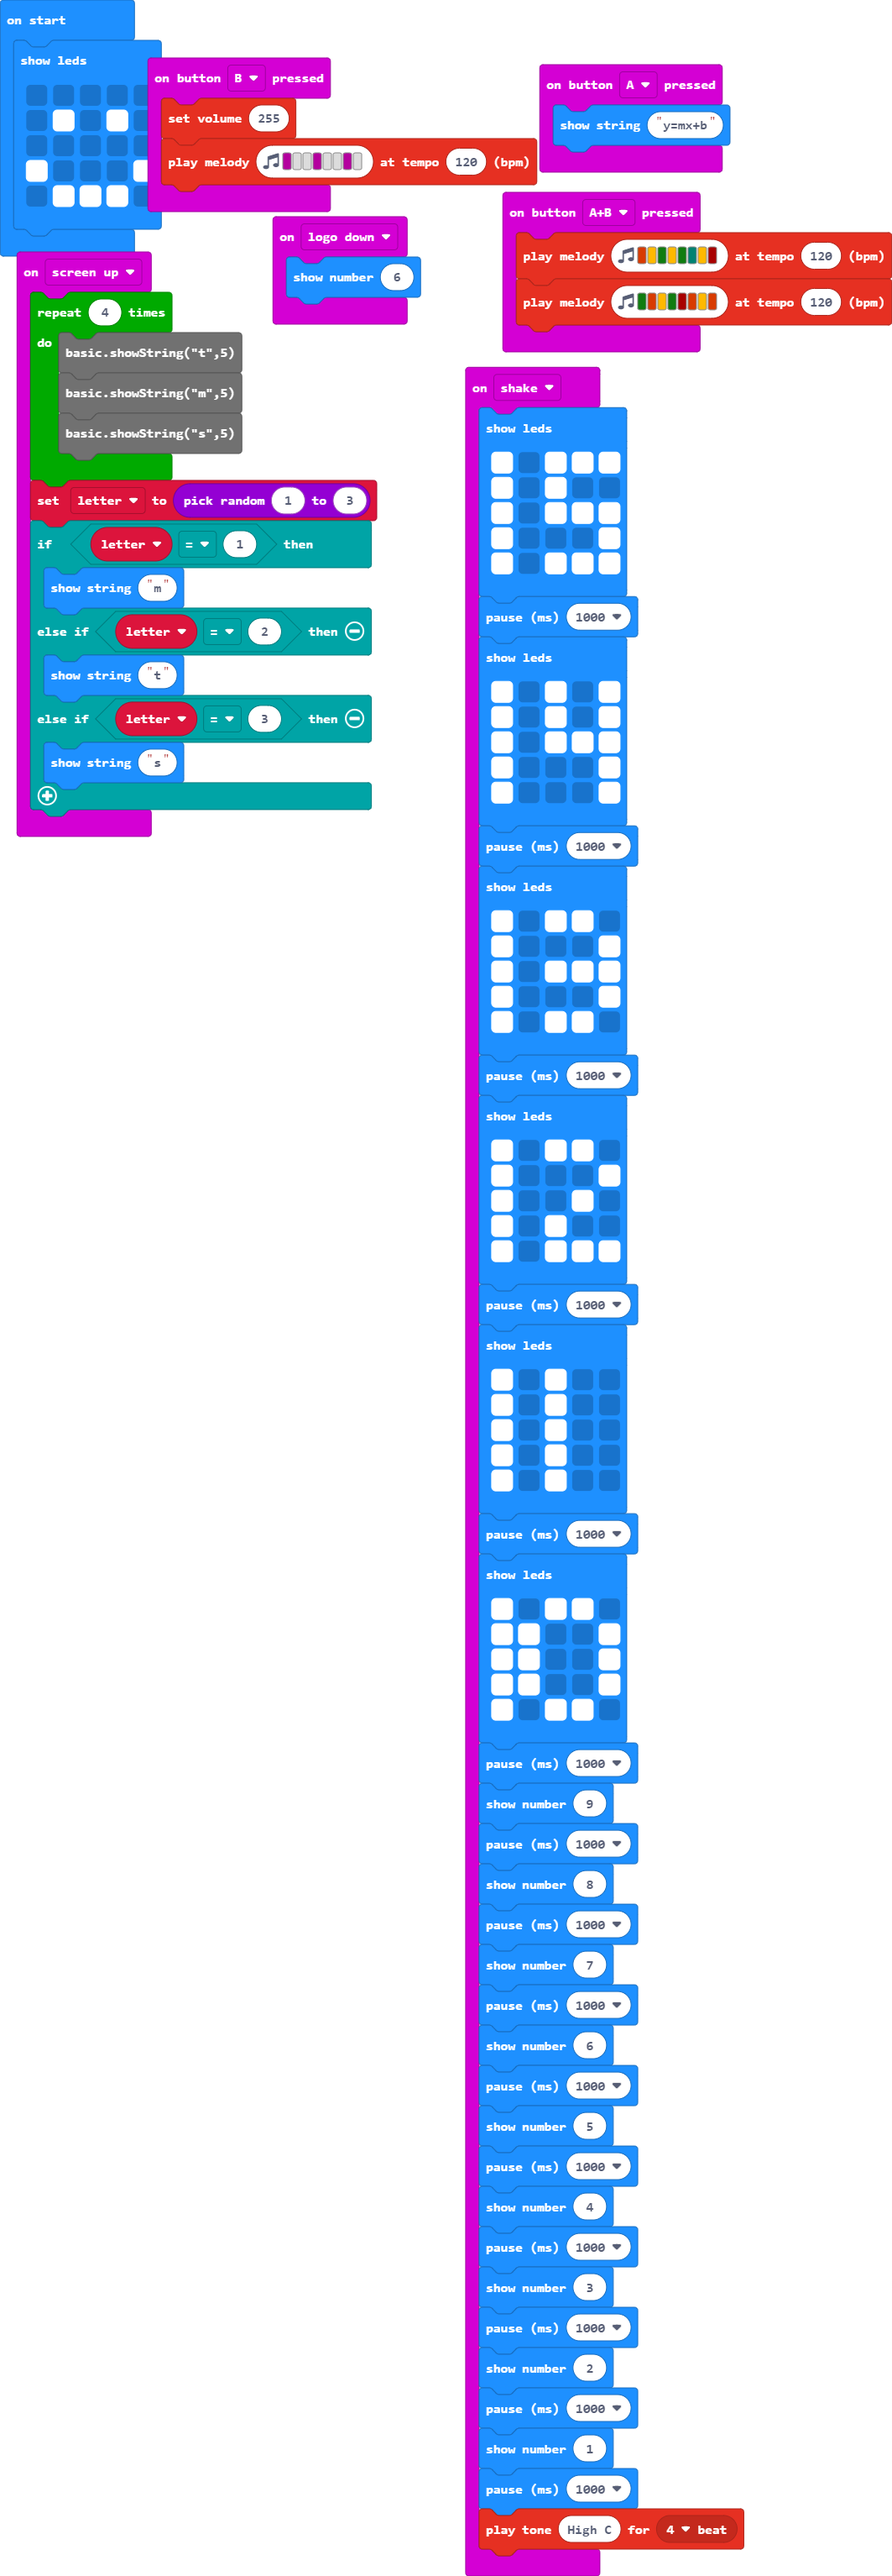
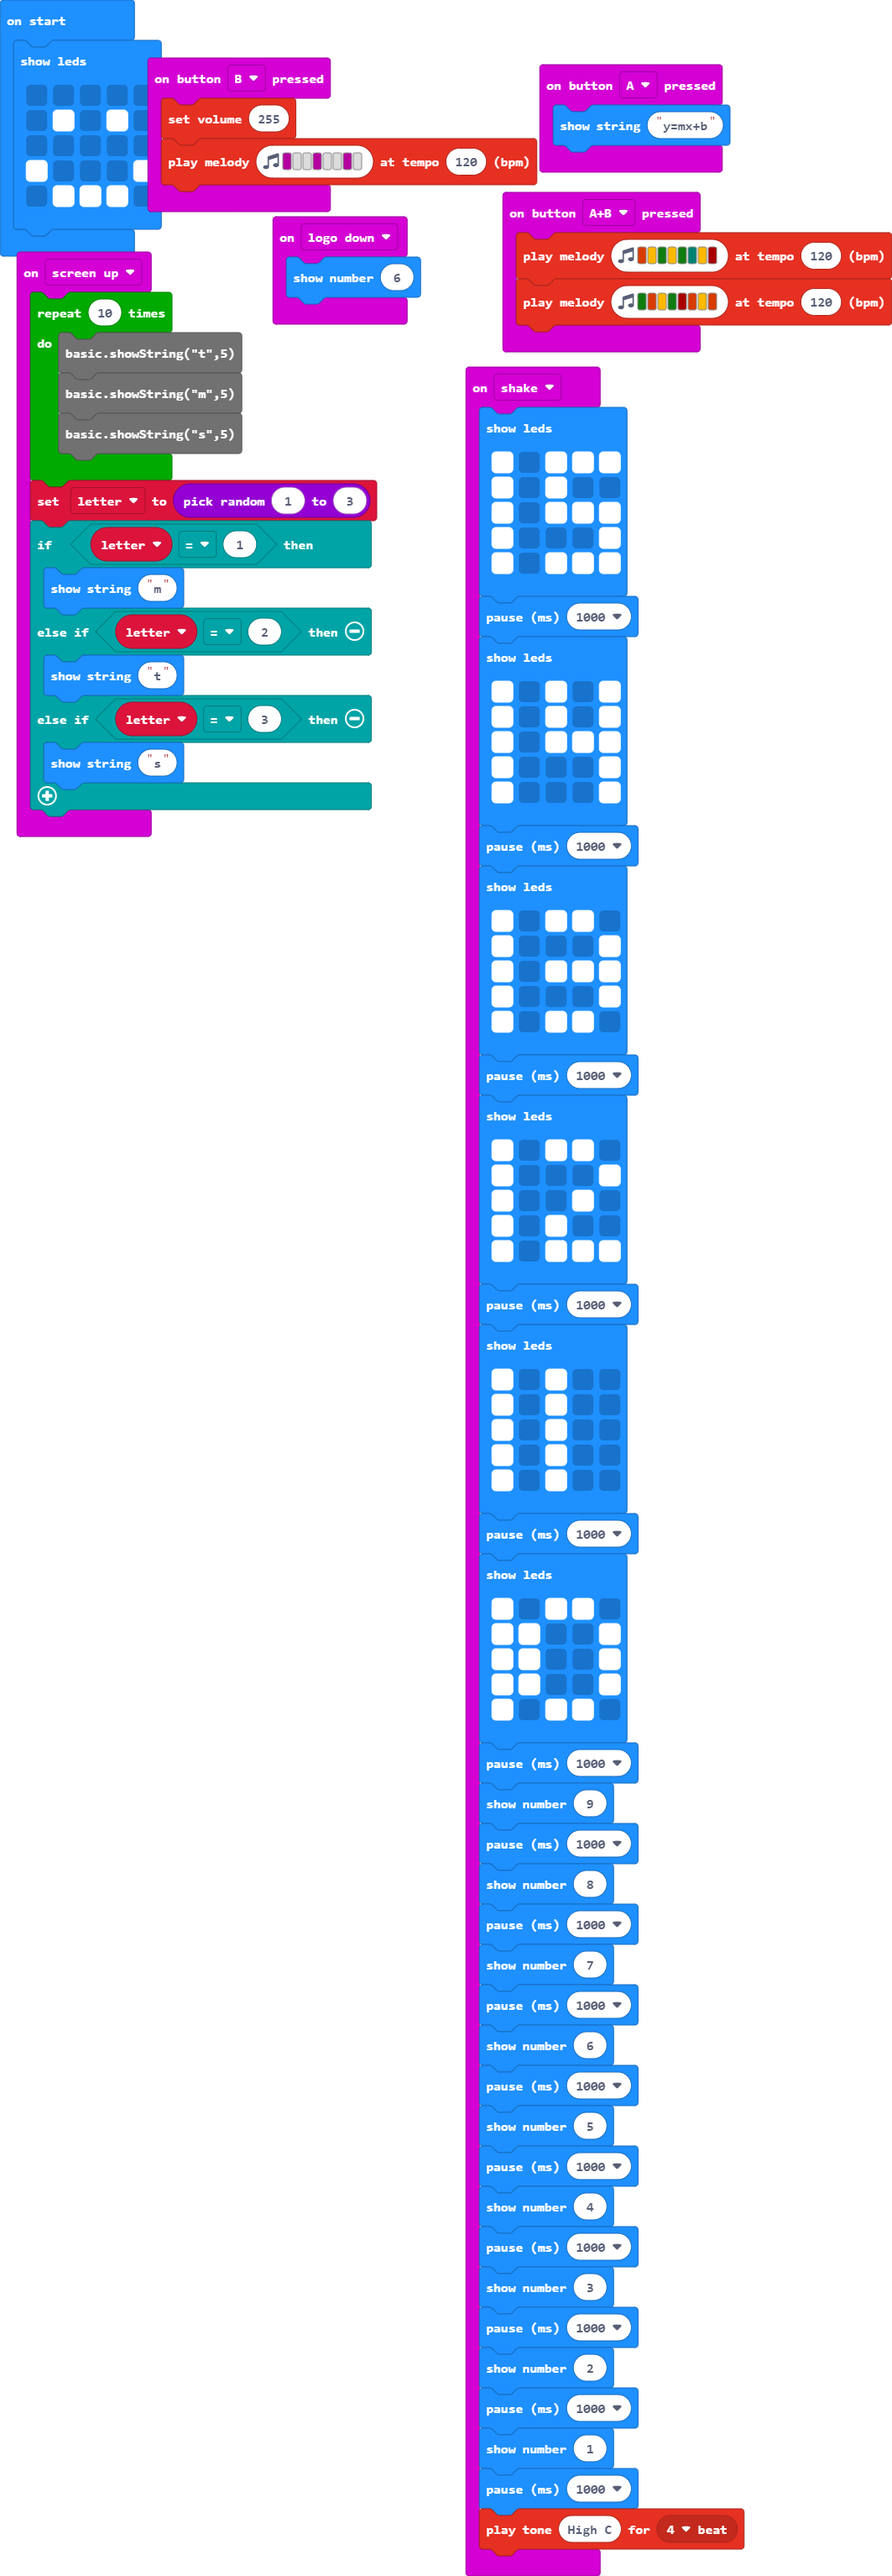
Update main.blocks, main.ts

diff --git a/main.ts b/main.ts
@@ -2,7 +2,7 @@ input.onButtonPressed(Button.A, function () {
     basic.showString("y=mx+b")
 })
 input.onGesture(Gesture.ScreenUp, function () {
-    for (let index = 0; index < 4; index++) {
+    for (let index = 0; index < 10; index++) {
         basic.showString("t",5)
 basic.showString("m",5)
 basic.showString("s",5)
